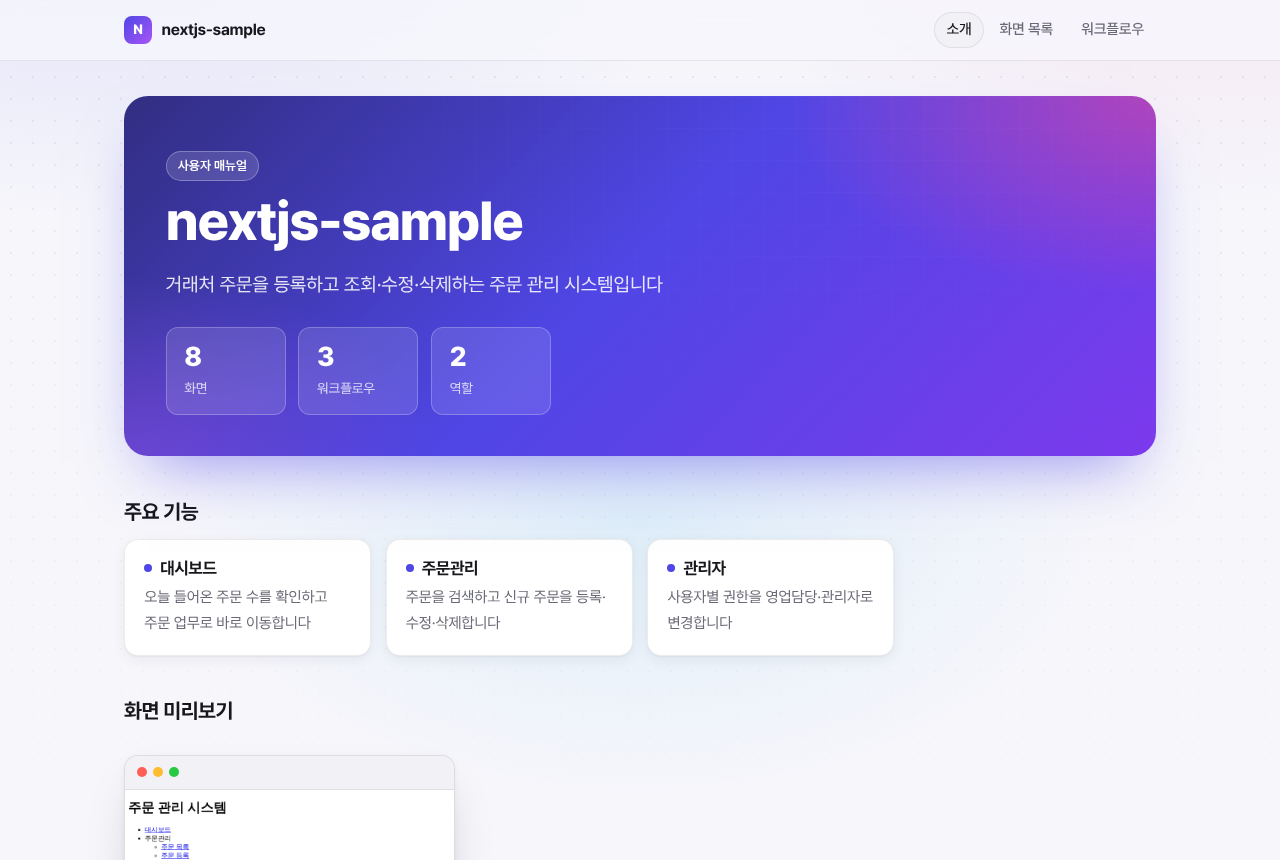
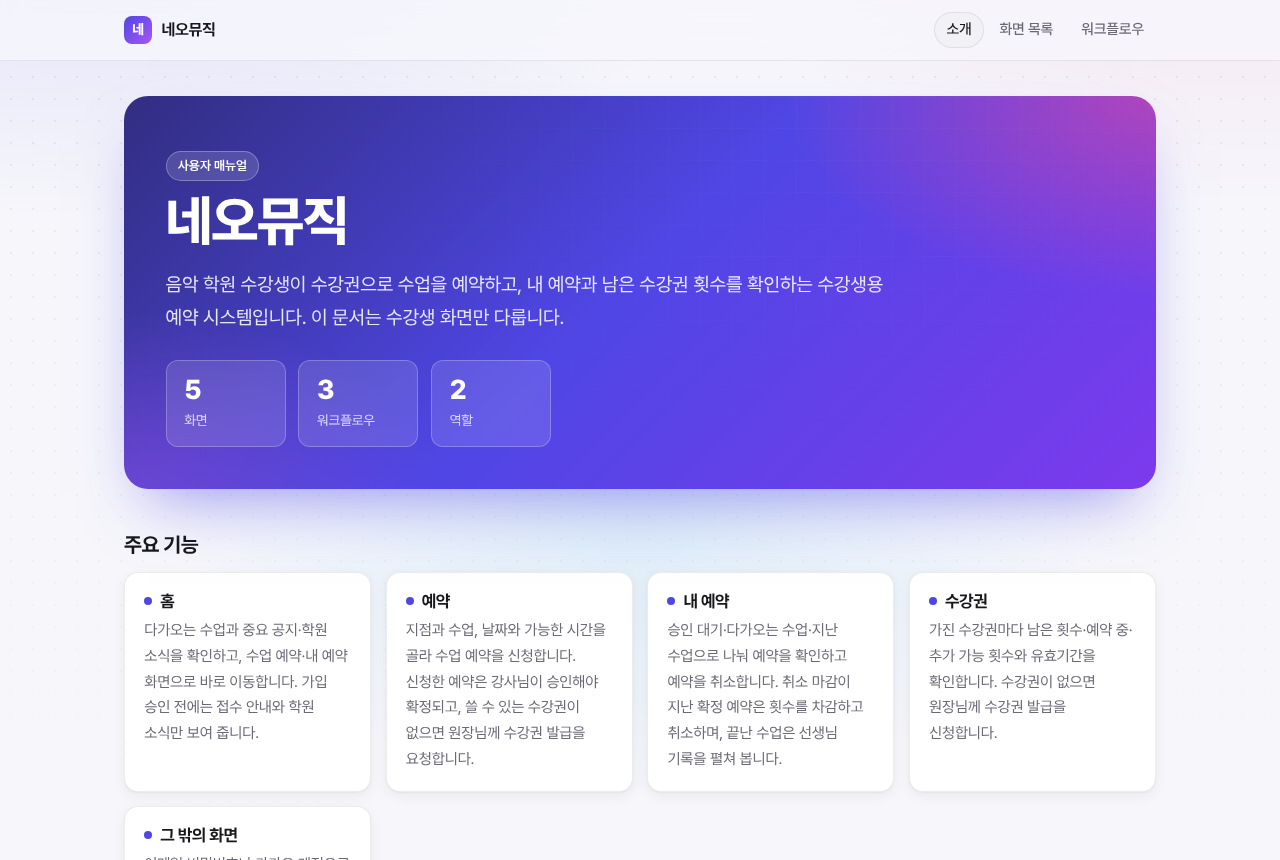
README 예시를 실제 앱(휴대폰 우선 Next.js PWA) 산출물로, 실전 기록
- 소개 페이지·화면별 매뉴얼(수업 예약, 휴대폰 폭 캡처)·워크플로우 이미지로 바꿨다(조작 GIF 칸은 워크플로우로)
- 캡처는 앱을 띄울 수 없어 그 저장소의 확인용 목업에서 가져왔음을 README에 밝힌다
- npm run demo는 샘플 앱 예시를 docs/assets/sample/(커밋하지 않음)에 만든다
- 실전 기록: route group 경로, JSX로 끊긴 문구, 휴대폰 크기 캡처

Claude-Session: https://claude.ai/code/session_018J8cWvE1VgnUFwcnSST4xz

Changed region(s): [[0.0938, 0.2116, 0.9062, 1.0], [0.7188, 0.6953, 0.875, 0.8767], [0.125, 0.0302, 0.2188, 0.0605]]

diff --git a/docs/field-tests/2026-10-17-nextjs-pwa.md b/docs/field-tests/2026-10-17-nextjs-pwa.md
@@ -1,0 +1,31 @@
+# 실전 적용 기록 — 휴대폰 우선 Next.js PWA (2026-10-17)
+
+README 예시를 만들며 한 실전 검증. 대상 레포의 소스·분석 결과는 이 레포에 넣지 않았고(README 예시 이미지는 사용자 동의로 사용), 일반화한 문제와 수치만 적습니다. 원본은 읽기만 했고 스크래치 복사본에서 진행했습니다.
+
+## 대상
+
+- Next.js 16 App Router PWA. 화면이 route group(`app/(student)/…`, `(teacher)`, `(admin)`)으로 나뉘고, 본문이 휴대폰 폭(390px) 기준
+- DB·소셜 로그인 없이는 띄울 수 없음 → 캡처는 레포의 확인용 목업(실제 컴포넌트·빌드된 CSS로 만든 정적 화면)에서 가져옴
+- 화면 60개 중 수강생 화면 4개 + 로그인만 분석(`screens.include`)
+
+## 흐름과 수치
+
+| 단계 | 결과 |
+| --- | --- |
+| init·inventory | `nextjs` 감지기로 60개, include로 5개 |
+| 화면 분석 | 서브에이전트 2개, 5화면 모두 통과(첫 실행에서 문구 검사 실패 4건 → 아래 2번) |
+| 소개·워크플로우 | 기능 5, 워크플로우 3(예약 신청, 수강권 확인 후 예약, 예약 취소) |
+| 산출물 | HTML(handover) |
+
+## 발견한 문제와 처리
+
+| # | 문제 | 처리 |
+| --- | --- | --- |
+| 1 | 산출물의 경로가 `/(admin)/admin`처럼 route group을 포함 — 사용자가 주소창에서 볼 수 없는 경로 | inventory의 route(파일 구조 열쇠)는 그대로 두고, 산출물에 보일 때 route group·병렬 슬롯을 뺀다 |
+| 2 | JSX에서 문장이 `<b>`·`<br/>`·`{" "}`·`{/* */}`로 끊기면 화면에 보이는 대로 적은 문구가 근거 검사에 실패 — 에이전트가 문장 일부만 적거나 공백을 뺀 자리 표시를 씀 | 검사 창에서 인라인 태그·JSX 주석을 빼고 `{" "}`를 공백으로 바꾼 글자에서도 찾는다 |
+| 3 | 휴대폰 우선 앱을 1280 폭으로 찍으면 대부분 여백이고, 산출물에서 데스크톱 폭으로 늘어남 | `capture.device: mobile`(캡처 390×844 2배 밀도, GIF 390×700), 산출물은 400px 폭 틀로 가운데 |
+
+## 고치지 않은 것
+
+- 앱을 띄울 수 없을 때 목업에서 캡처를 가져오는 기능은 넣지 않았습니다(이번에는 수동). 목업 형식이 프로젝트마다 달라 일반화하기 어렵습니다
+- 접근 권한이 역할이 아니라 리다이렉트 함수로 정해지는 화면은 역할을 `medium`으로 적습니다(규칙 그대로)

diff --git a/README.en.md b/README.en.md
@@ -6,11 +6,11 @@ docent is a Claude Code plugin that reads a web app's source code and writes a *
 
 ![Output overview page](docs/assets/demo-index.png)
 
-| Screen manual | Screen in use |
+| Screen manual | Workflow |
 | --- | --- |
-| ![Screen manual](docs/assets/demo-screen.png) | ![Order entry](docs/assets/demo.gif) |
+| ![Screen manual](docs/assets/demo-screen.png) | ![Workflow](docs/assets/demo-workflow.png) |
 
-<sub>These examples come from the sample app in this repo (`fixtures/nextjs-sample`). Run `npm run demo` to rebuild them. The demo is in Korean; set `language: en` for English output.</sub>
+<sub>These examples are docent's output for five student screens of a music academy's booking PWA (Next.js, NeoMusiq). That app cannot start without its database and login, so the screen captures come from the confirmation mockup in its repository (built from the real components and CSS), shown at phone size (`capture.device: mobile`). To see captures and GIFs taken from a running app, run `npm run demo` on the sample app in this repo. The demo is in Korean; set `language: en` for English output.</sub>
 
 ## Install
 
@@ -72,6 +72,6 @@ npm run demo
 
 - `npm test` — run all tests
 - `npm run build` — rebuild the CLI bundle (`skills/docent/scripts/dist`). Run it and commit the result whenever you change the source
-- `npm run demo` — rebuild the README demo assets (`docs/assets/`)
+- `npm run demo` — run, capture and record the sample app (`fixtures/nextjs-sample`) and write example output to `docs/assets/sample/` (not committed)
 
 The design is in `docs/superpowers/specs/2026-10-13-docent-design.md` and the implementation plans are in `docs/superpowers/plans/`. MIT license.

diff --git a/README.md b/README.md
@@ -6,11 +6,11 @@
 
 ![산출물 소개 페이지](docs/assets/demo-index.png)
 
-| 화면별 매뉴얼 | 조작 GIF |
+| 화면별 매뉴얼 | 워크플로우 |
 | --- | --- |
-| ![화면별 매뉴얼](docs/assets/demo-screen.png) | ![주문 등록 조작](docs/assets/demo.gif) |
+| ![화면별 매뉴얼](docs/assets/demo-screen.png) | ![워크플로우](docs/assets/demo-workflow.png) |
 
-<sub>예시는 이 레포의 샘플 앱(`fixtures/nextjs-sample`)으로 만들었습니다. `npm run demo`로 다시 만들 수 있습니다.</sub>
+<sub>예시는 음악 학원 수강생 예약 PWA(Next.js, 네오뮤직)의 수강생 화면 5개에 docent를 적용한 결과입니다. 그 앱은 DB·로그인 없이 띄울 수 없어, 화면 캡처는 그 저장소의 확인용 목업(실제 컴포넌트와 CSS로 만든 화면)에서 가져왔고 휴대폰 크기(`capture.device: mobile`)로 보였습니다. 실제 앱을 띄워 찍는 캡처·조작 GIF는 이 레포의 샘플 앱으로 `npm run demo`를 실행해 볼 수 있습니다.</sub>
 
 ## 설치
 
@@ -72,6 +72,6 @@ npm run demo
 
 - `npm test` — 전체 테스트
 - `npm run build` — CLI 번들(`skills/docent/scripts/dist`) 다시 만들기. 소스를 고쳤으면 꼭 실행해 커밋합니다
-- `npm run demo` — README 데모 자산(`docs/assets/`) 다시 만들기
+- `npm run demo` — 샘플 앱(`fixtures/nextjs-sample`)을 실행·캡처·녹화해 산출물 예시를 `docs/assets/sample/`에 만들기(커밋하지 않음)
 
 설계는 `docs/superpowers/specs/2026-10-13-docent-design.md`, 구현 계획은 `docs/superpowers/plans/`에 있습니다. 라이선스는 MIT입니다.
